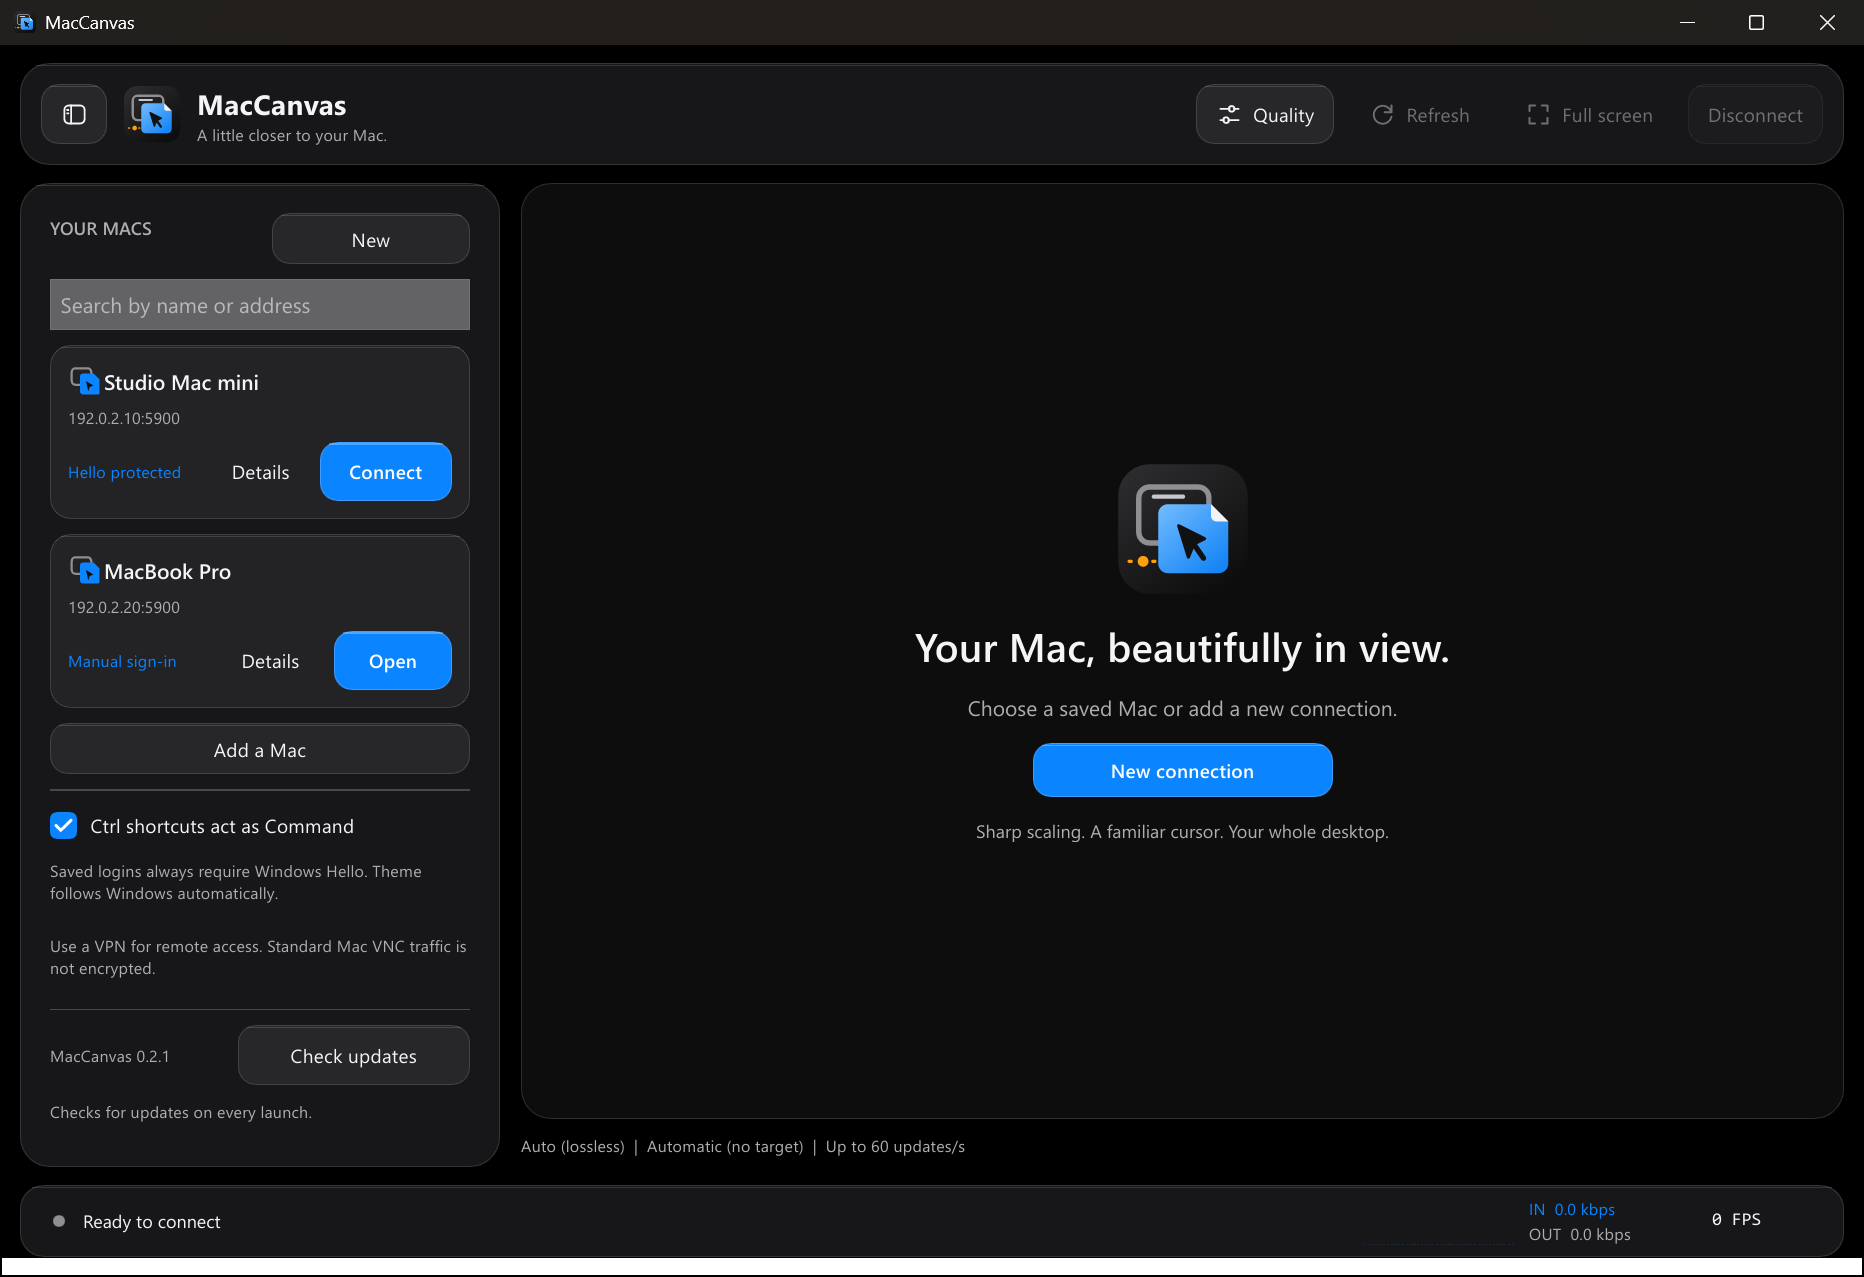
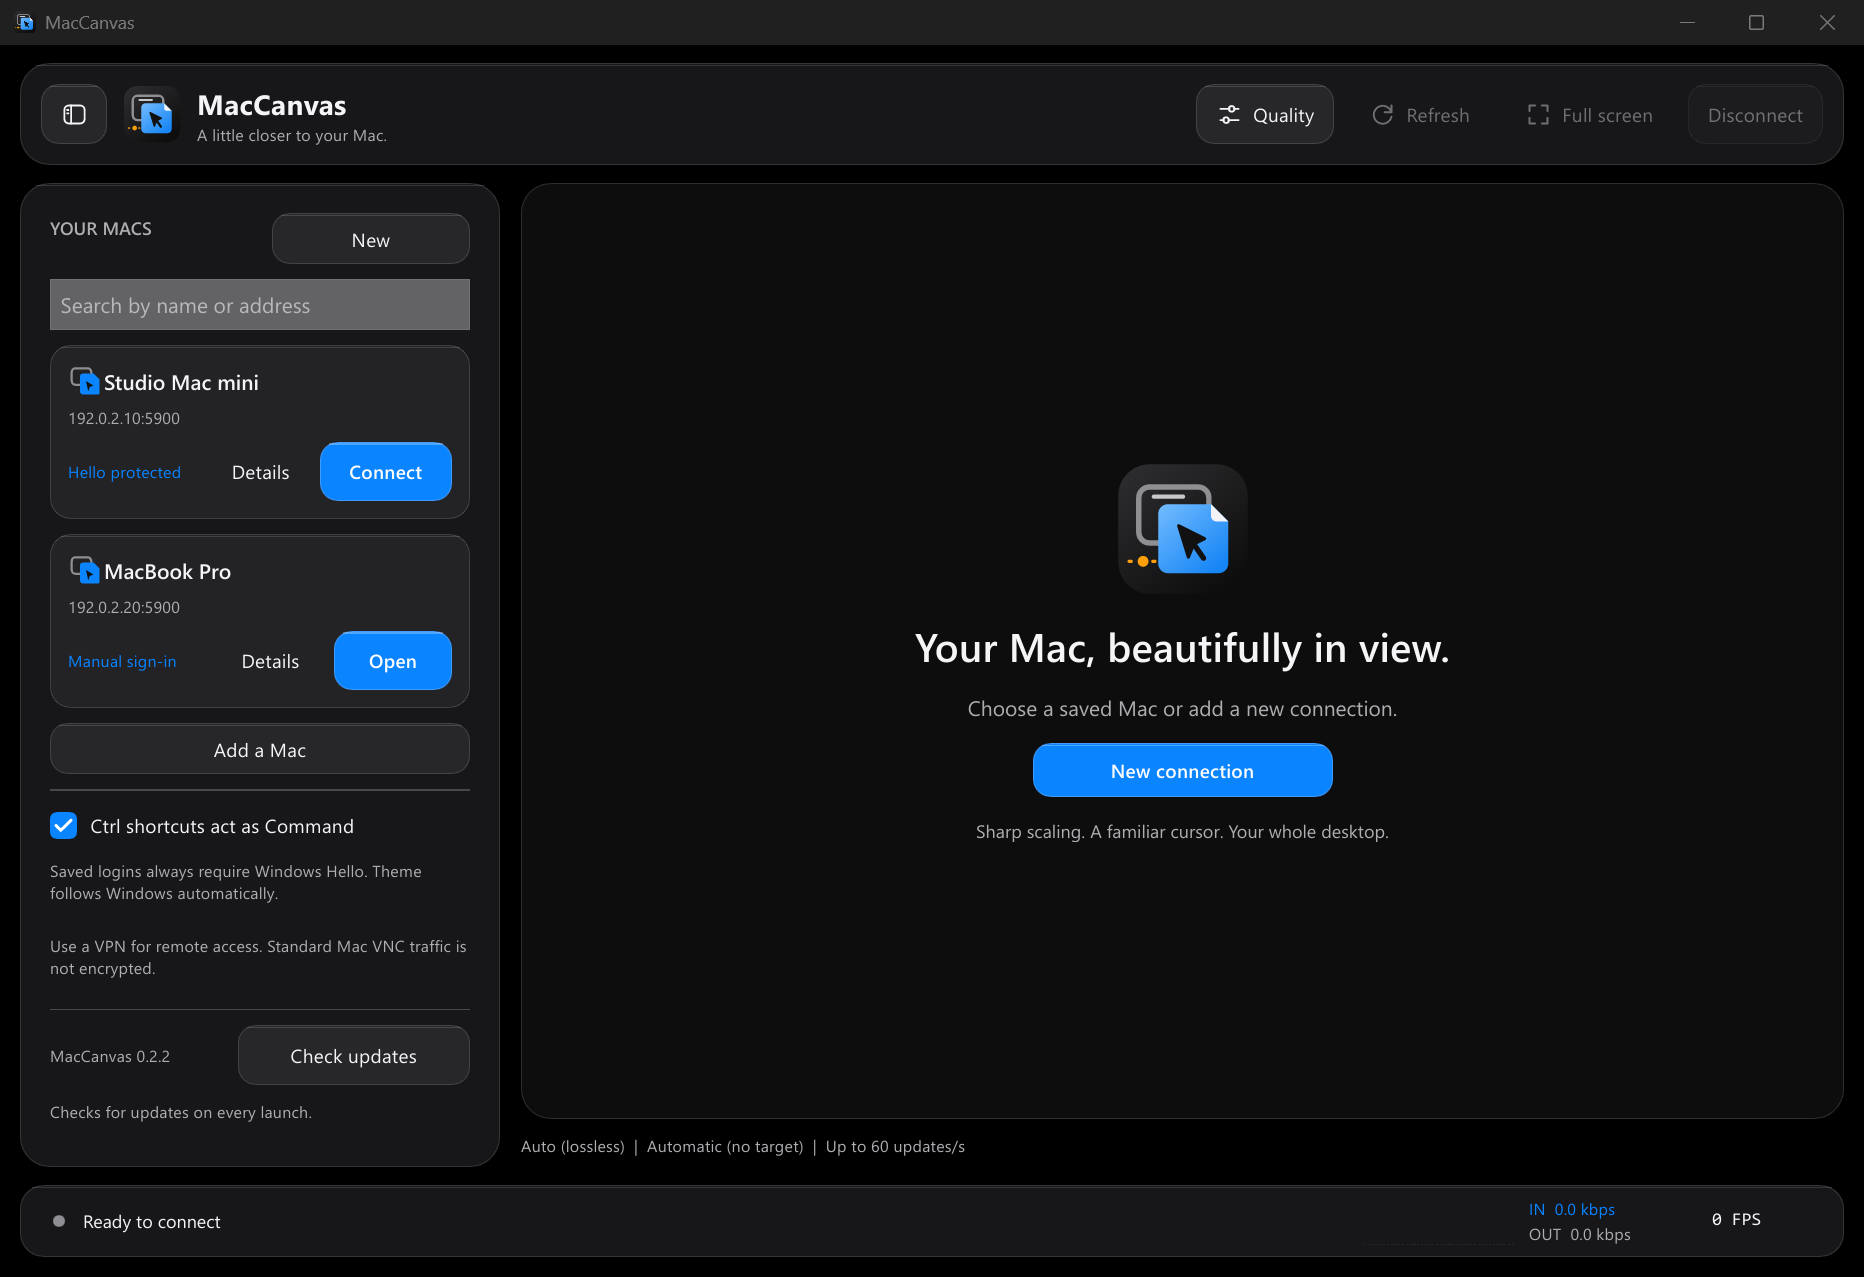
Handle Windows executable casing during updates
Match managed executable names using Windows case-insensitive rules and cover lowercase launches. Add an isolated live-update test that exercises the official release prompt, download, replacement, restart, and preservation of profiles and installer receipts. Refresh screenshots for version 0.2.2.

Changed region(s): [[0.0, 0.9773, 1.0, 1.0], [0.0311, 0.0, 0.0622, 0.0305]]

diff --git a/src/updates.rs b/src/updates.rs
@@ -222,7 +222,10 @@ fn install_at(
     let receipt = match fs::metadata(&receipt_path) {
         Ok(metadata) => {
             if metadata.len() > 4096
-                || executable.file_name().and_then(|name| name.to_str()) != Some("MacCanvas.exe")
+                || !executable
+                    .file_name()
+                    .and_then(|name| name.to_str())
+                    .is_some_and(|name| name.eq_ignore_ascii_case("MacCanvas.exe"))
             {
                 return Err(failed(
                     "The managed installation receipt does not match this executable",
@@ -603,6 +606,32 @@ mod tests {
         assert_eq!(updated.sha256, file_hash(&executable).unwrap());
         assert_eq!(updated.version, release.tag);
     }
+    #[test]
+    fn managed_executable_names_follow_windows_case_insensitivity() {
+        let directory = tempfile::tempdir().unwrap();
+        let executable = directory.path().join("maccanvas.exe");
+        let staged = directory.path().join("staged.exe");
+        let receipt = directory.path().join(".maccanvas-install.json");
+        fs::write(&executable, b"old fixture").unwrap();
+        write_receipt(
+            &receipt,
+            &Receipt {
+                repository: REPOSITORY.into(),
+                version: "v0.1.1".into(),
+                sha256: file_hash(&executable).unwrap(),
+            },
+        )
+        .unwrap();
+        let (bytes, release) = fixture();
+        fs::write(&staged, bytes).unwrap();
+        install_at(&executable, &staged, &release, |source| {
+            fs::copy(source, &executable)?;
+            Ok(())
+        })
+        .unwrap();
+        assert_eq!(file_hash(&executable).unwrap(), release.sha256);
+    }
+
     #[test]
     fn failed_replacement_restores_the_original_receipt() {
         let directory = tempfile::tempdir().unwrap();
